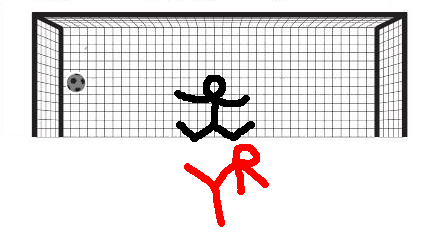
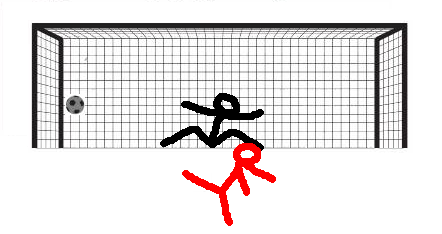
new image assets and miss shot logic (#72)

Changed region(s): [[0.0588, 0.0299, 0.9412, 0.9872]]

diff --git a/internal/domain/model/game/game.go b/internal/domain/model/game/game.go
@@ -1,6 +1,7 @@
 package game
 
 import (
+	"math/rand"
 	"time"
 
 	"github.com/Mikhalevich/tg-penalty-game-bot/internal/domain/model/msginfo"
@@ -10,6 +11,9 @@ import (
 
 const (
 	ShotsInitial = 5
+
+	percent100 = 100
+	percent10  = 10
 )
 
 type ID string
@@ -102,7 +106,7 @@ func (g *Game) JoinPlayerAndStartGame(plr Player, joinedAt time.Time) error {
 func (g *Game) PlayerShot(shot Shot) error {
 	inGameShot := g.shotByPlayerID(shot.PlayerID)
 
-	if inGameShot.Side != ShotSideNoShot {
+	if inGameShot.ExpectedSide != ShotSideNoShot {
 		return perror.AlreadyExists("shot already exist")
 	}
 
@@ -114,12 +118,26 @@ func (g *Game) PlayerShot(shot Shot) error {
 		return perror.InvalidRound()
 	}
 
-	inGameShot.Side = shot.Side
+	inGameShot.ExpectedSide = shot.ExpectedSide
+	inGameShot.ActualSide = calculateActualSide(shot.ExpectedSide)
 	inGameShot.CompletedAt = shot.CompletedAt
 
 	g.StateUpdatedAt = shot.CompletedAt
 
 	return nil
+}
+
+func isPercentMatch(percent int) bool {
+	//nolint:gosec
+	return rand.Int()%percent100 <= percent
+}
+
+func calculateActualSide(side ShotSide) ShotSide {
+	if isPercentMatch(percent10) {
+		return ShotSideMiss
+	}
+
+	return side
 }
 
 // TryToCompleteRound complete round if both players make shots
@@ -128,8 +146,8 @@ func (g *Game) PlayerShot(shot Shot) error {
 func (g *Game) TryToCompleteRound() bool {
 	cRound := g.currentRoundPtr()
 
-	if (cRound.Attack.Side == ShotSideNoShot) ||
-		(cRound.Defend.Side == ShotSideNoShot) {
+	if (cRound.Attack.ActualSide == ShotSideNoShot) ||
+		(cRound.Defend.ActualSide == ShotSideNoShot) {
 		return false
 	}
 
@@ -197,17 +215,17 @@ func (g *Game) currentRoundPtr() *Round {
 	return &g.State.Rounds[g.State.CurrentRoundIdx]
 }
 
-func updateShot(shot *Shot, side ShotSide, shotAt time.Time) {
-	shot.Side = side
+func updateActualShot(shot *Shot, side ShotSide, shotAt time.Time) {
+	shot.ActualSide = side
 	shot.CompletedAt = shotAt
 }
 
 func updateIfNoShot(shot *Shot, side ShotSide, shotAt time.Time) {
-	if shot.Side != ShotSideNoShot || shot.PlayerID == 0 {
+	if shot.ActualSide != ShotSideNoShot || shot.PlayerID == 0 {
 		return
 	}
 
-	updateShot(shot, side, shotAt)
+	updateActualShot(shot, side, shotAt)
 }
 
 func missShotForPlayerOrMiddleOtherwise(
@@ -216,7 +234,7 @@ func missShotForPlayerOrMiddleOtherwise(
 	completedAt time.Time,
 ) {
 	if shot.PlayerID == missShotPlayerID {
-		updateShot(shot, ShotSideMiss, completedAt)
+		updateActualShot(shot, ShotSideMiss, completedAt)
 
 		return
 	}
@@ -250,10 +268,10 @@ func (g *Game) updateAttackerGoals(attackerID player.ID, isGoal bool) {
 
 func updateRoundResults(round *Round) {
 	switch {
-	case round.Attack.Side == ShotSideMiss:
+	case round.Attack.ActualSide == ShotSideMiss:
 		round.Result = RoundResultMiss
 
-	case round.Attack.Side != round.Defend.Side:
+	case round.Attack.ActualSide != round.Defend.ActualSide:
 		round.Result = RoundResultGoal
 
 	default:

diff --git a/internal/adapter/repository/postgres/model/shot.go b/internal/adapter/repository/postgres/model/shot.go
@@ -9,24 +9,26 @@ import (
 )
 
 type Shot struct {
-	GameID      string       `db:"game_id"`
-	PlayerID    int          `db:"player_id"`
-	Round       int          `db:"round"`
-	Type        string       `db:"shot_type"`
-	CreatedAt   time.Time    `db:"created_at"`
-	Side        string       `db:"side"`
-	CompletedAt sql.NullTime `db:"completed_at"`
+	GameID       string       `db:"game_id"`
+	PlayerID     int          `db:"player_id"`
+	Round        int          `db:"round"`
+	Type         string       `db:"shot_type"`
+	CreatedAt    time.Time    `db:"created_at"`
+	ExpectedSide string       `db:"expected_side"`
+	ActualSide   string       `db:"actual_side"`
+	CompletedAt  sql.NullTime `db:"completed_at"`
 }
 
 func (s Shot) ToShot() game.Shot {
 	return game.Shot{
-		GameID:      game.IDFromString(s.GameID),
-		PlayerID:    player.IDFromInt(s.PlayerID),
-		Round:       s.Round,
-		Type:        game.ShotType(s.Type),
-		CreatedAt:   s.CreatedAt,
-		Side:        game.ShotSide(s.Side),
-		CompletedAt: s.CompletedAt.Time,
+		GameID:       game.IDFromString(s.GameID),
+		PlayerID:     player.IDFromInt(s.PlayerID),
+		Round:        s.Round,
+		Type:         game.ShotType(s.Type),
+		CreatedAt:    s.CreatedAt,
+		ExpectedSide: game.ShotSide(s.ExpectedSide),
+		ActualSide:   game.ShotSide(s.ActualSide),
+		CompletedAt:  s.CompletedAt.Time,
 	}
 }
 
@@ -42,13 +44,14 @@ func ToShots(dbShots []Shot) []game.Shot {
 
 func ToDBShot(domShot game.Shot) Shot {
 	return Shot{
-		GameID:      domShot.GameID.String(),
-		PlayerID:    domShot.PlayerID.Int(),
-		Round:       domShot.Round,
-		Type:        domShot.Type.String(),
-		CreatedAt:   domShot.CreatedAt,
-		Side:        domShot.Side.String(),
-		CompletedAt: toNullTime(domShot.CompletedAt),
+		GameID:       domShot.GameID.String(),
+		PlayerID:     domShot.PlayerID.Int(),
+		Round:        domShot.Round,
+		Type:         domShot.Type.String(),
+		CreatedAt:    domShot.CreatedAt,
+		ExpectedSide: domShot.ExpectedSide.String(),
+		ActualSide:   domShot.ActualSide.String(),
+		CompletedAt:  toNullTime(domShot.CompletedAt),
 	}
 }
 

diff --git a/internal/adapter/shotimageprovider/image.go b/internal/adapter/shotimageprovider/image.go
@@ -4,6 +4,7 @@ import (
 	"context"
 	"fmt"
 
+	"github.com/Mikhalevich/tg-penalty-game-bot/internal/domain/model/game"
 	"github.com/Mikhalevich/tg-penalty-game-bot/internal/domain/model/shotimage"
 )
 
@@ -45,10 +46,28 @@ func imageFolderAndName(shot shotimage.ShotImage) (string, string) {
 		return prepareFolder, defendFile
 
 	case shotimage.ImageTypeAttack:
-		return attackFolder, fmt.Sprintf("%s_%s", shot.AttackerSide, shot.DefenderSide)
+		if shot.AttackerActualSide == game.ShotSideMiss {
+			return attackFolder,
+				fmt.Sprintf("%s_%s_%s",
+					shot.AttackerActualSide,
+					shot.AttackerExpectedSide,
+					shot.DefenderActualSide,
+				)
+		}
+
+		return attackFolder, fmt.Sprintf("%s_%s", shot.AttackerActualSide, shot.DefenderActualSide)
 
 	case shotimage.ImageTypeDefend:
-		return defendFolder, fmt.Sprintf("%s_%s", shot.AttackerSide, shot.DefenderSide)
+		if shot.AttackerActualSide == game.ShotSideMiss {
+			return defendFolder,
+				fmt.Sprintf("%s_%s_%s",
+					shot.AttackerActualSide,
+					shot.AttackerExpectedSide,
+					shot.DefenderActualSide,
+				)
+		}
+
+		return defendFolder, fmt.Sprintf("%s_%s", shot.AttackerActualSide, shot.DefenderActualSide)
 	}
 
 	return "", ""

diff --git a/internal/domain/notifier/game_round_finish.go b/internal/domain/notifier/game_round_finish.go
@@ -22,8 +22,9 @@ func (n *Notifier) GameRoundFinish(ctx context.Context, state game.State) error 
 			plr,
 			msg,
 			shotImageTypeByPlayerID(plr.ID, cRound.Attack.PlayerID),
-			cRound.Attack.Side,
-			cRound.Defend.Side,
+			cRound.Attack.ExpectedSide,
+			cRound.Attack.ActualSide,
+			cRound.Defend.ActualSide,
 		); err != nil {
 			return fmt.Errorf("send shot image: %w", err)
 		}
@@ -62,17 +63,19 @@ func (n *Notifier) sendShotImageForFinishRound(
 	plr game.Player,
 	msg string,
 	imageType shotimage.ImageType,
-	attackerSide game.ShotSide,
-	defenderSide game.ShotSide,
+	attackerExpectedSide game.ShotSide,
+	attackerActualSide game.ShotSide,
+	defenderActualSide game.ShotSide,
 ) error {
 	if plr.IsBot() {
 		return nil
 	}
 
 	payload, err := shotimage.ShotImage{
-		Type:         imageType,
-		AttackerSide: attackerSide,
-		DefenderSide: defenderSide,
+		Type:                 imageType,
+		AttackerExpectedSide: attackerExpectedSide,
+		AttackerActualSide:   attackerActualSide,
+		DefenderActualSide:   defenderActualSide,
 	}.GOBEncode()
 
 	if err != nil {

diff --git a/internal/domain/gameusecase/gameshot/shot.go b/internal/domain/gameusecase/gameshot/shot.go
@@ -16,7 +16,6 @@ var (
 		game.ShotSideLeft,
 		game.ShotSideMiddle,
 		game.ShotSideRight,
-		game.ShotSideMiss,
 	}
 )
 
@@ -144,11 +143,11 @@ func (g *GameShot) processBotShot(
 	completedAt time.Time,
 ) error {
 	if err := currentGame.PlayerShot(game.Shot{
-		GameID:      currentGame.ID,
-		PlayerID:    0,
-		Round:       round,
-		Side:        generateBotSide(),
-		CompletedAt: completedAt,
+		GameID:       currentGame.ID,
+		PlayerID:     0,
+		Round:        round,
+		ExpectedSide: generateBotSide(),
+		CompletedAt:  completedAt,
 	}); err != nil {
 		return fmt.Errorf("player shot: %w", err)
 	}

diff --git a/internal/adapter/repository/postgres/insert_shots.go b/internal/adapter/repository/postgres/insert_shots.go
@@ -19,7 +19,8 @@ func (p *Postgres) InsertShots(ctx context.Context, shots []game.Shot) error {
 				round,
 				shot_type,
 				created_at,
-				side,
+				expected_side,
+				actual_side,
 				completed_at
 			) VALUES (
 				:game_id,
@@ -27,7 +28,8 @@ func (p *Postgres) InsertShots(ctx context.Context, shots []game.Shot) error {
 				:round,
 				:shot_type,
 				:created_at,
-				:side,
+				:expected_side,
+				:actual_side,
 				:completed_at
 			)
 		`

diff --git a/internal/adapter/repository/postgres/player_shot_stats_by_current_month.go b/internal/adapter/repository/postgres/player_shot_stats_by_current_month.go
@@ -21,7 +21,7 @@ func (p *Postgres) PlayerShotStatsByCurrentMonth(
 			WITH total_shots AS (
 				SELECT
 					shot_type,
-					side,
+					expected_side AS side,
 					COUNT(*) AS total_count
 				FROM
 					shot
@@ -30,7 +30,7 @@ func (p *Postgres) PlayerShotStatsByCurrentMonth(
 					shot_type = $2 AND
 					created_at >= DATE_TRUNC('month', CURRENT_DATE)
 				GROUP BY
-					shot_type, side
+					shot_type, expected_side
 			)
 			SELECT
 				side,

diff --git a/internal/domain/playerusecase/gameshot/shot.go b/internal/domain/playerusecase/gameshot/shot.go
@@ -26,11 +26,11 @@ func (g *GameShot) Shot(
 	}
 
 	if err := g.gameController.Shot(ctx, game.Shot{
-		GameID:      gameID,
-		PlayerID:    currentPlayer.ID,
-		Round:       round,
-		Side:        side,
-		CompletedAt: g.timeProvider.Now(),
+		GameID:       gameID,
+		PlayerID:     currentPlayer.ID,
+		Round:        round,
+		ExpectedSide: side,
+		CompletedAt:  g.timeProvider.Now(),
 	}); err != nil {
 		return fmt.Errorf("game shot: %w", err)
 	}

diff --git a/internal/domain/model/game/shot.go b/internal/domain/model/game/shot.go
@@ -32,11 +32,12 @@ func (ss ShotSide) String() string {
 }
 
 type Shot struct {
-	GameID      ID
-	PlayerID    player.ID
-	Round       int
-	Type        ShotType
-	CreatedAt   time.Time
-	Side        ShotSide
-	CompletedAt time.Time
+	GameID       ID
+	PlayerID     player.ID
+	Round        int
+	Type         ShotType
+	CreatedAt    time.Time
+	ExpectedSide ShotSide
+	ActualSide   ShotSide
+	CompletedAt  time.Time
 }

diff --git a/internal/domain/model/game/create_game.go b/internal/domain/model/game/create_game.go
@@ -94,10 +94,11 @@ func makePendingShot(
 	shotType ShotType,
 ) Shot {
 	return Shot{
-		GameID:   gameID,
-		PlayerID: playerID,
-		Round:    roundNumber,
-		Type:     shotType,
-		Side:     ShotSideNoShot,
+		GameID:       gameID,
+		PlayerID:     playerID,
+		Round:        roundNumber,
+		Type:         shotType,
+		ExpectedSide: ShotSideNoShot,
+		ActualSide:   ShotSideNoShot,
 	}
 }

diff --git a/internal/domain/model/shotimage/shot_image.go b/internal/domain/model/shotimage/shot_image.go
@@ -22,9 +22,10 @@ func (it ImageType) String() string {
 }
 
 type ShotImage struct {
-	Type         ImageType
-	AttackerSide game.ShotSide
-	DefenderSide game.ShotSide
+	Type                 ImageType
+	AttackerExpectedSide game.ShotSide
+	AttackerActualSide   game.ShotSide
+	DefenderActualSide   game.ShotSide
 }
 
 func (si ShotImage) GOBEncode() ([]byte, error) {

diff --git a/internal/domain/model/game/state.go b/internal/domain/model/game/state.go
@@ -74,7 +74,13 @@ func (s State) CompletedShots() []Shot {
 			continue
 		}
 
-		shots = append(shots, round.Attack, round.Defend)
+		if round.Attack.ExpectedSide != ShotSideNoShot {
+			shots = append(shots, round.Attack)
+		}
+
+		if round.Defend.ExpectedSide != ShotSideNoShot {
+			shots = append(shots, round.Defend)
+		}
 	}
 
 	return shots
